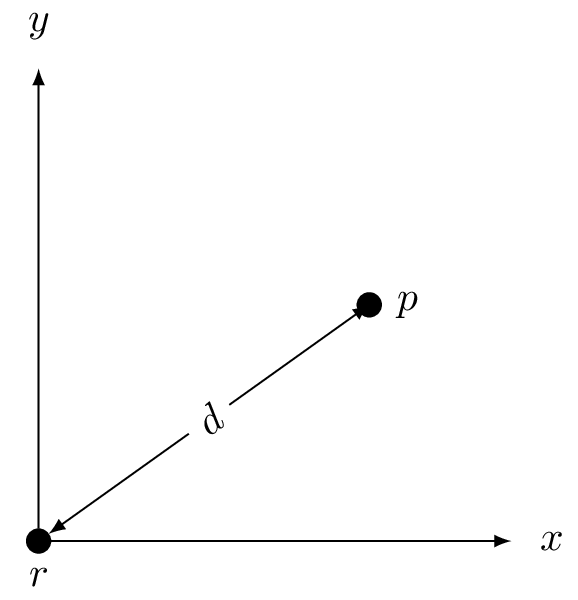
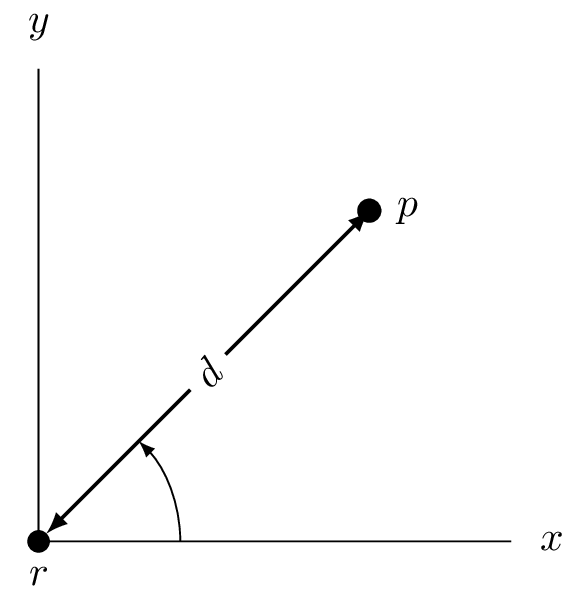
Add change basis

diff --git a/geometry/basis/change_basis.tex b/geometry/basis/change_basis.tex
@@ -1,12 +1,15 @@
 \documentclass[convert={outfile=\jobname.png}]{standalone}
-\usepackage{tikz}
+\usepackage{draw}
 
 \begin{document}
     \def\size{4}
-	\begin{tikzpicture}[point/.style={draw, circle, fill=black, inner sep=2pt},style={->, >=latex}]
-        \draw (0, 0) node[point, label=below:$r$] (r) {} --++ (\size, 0) node[label=right:$x$] {};
-        \draw (r) --++ (0, \size) node[label=above:$y$] {};
-        \draw[<->] (r) to node[sloped, fill=white] {$d$} (.7*\size, .5*\size) node[point, label=right:$p$] {};
+    \def\a{.2}
+	\begin{tikzpicture}
+        \draw[arcthin] (0, 0) node[point, label=below:$r$] (r) {} --++ (\size, 0) node[label=right:$x$] {};
+        \draw[arcthin] (r) --++ (0, \size) node[label=above:$y$] {};
+        \draw[double] (r) to node[sloped, fill=white] {$d$} (.7*\size, .7*\size) node[point, label=right:$p$] {};
+        \draw[arcthin] (\a*\size,0) arc (0:45:\a*\size);
+        \node at (.15+\a*\size, .5*\a*\size) {$a$};
     \end{tikzpicture}
 
 \end{document}
